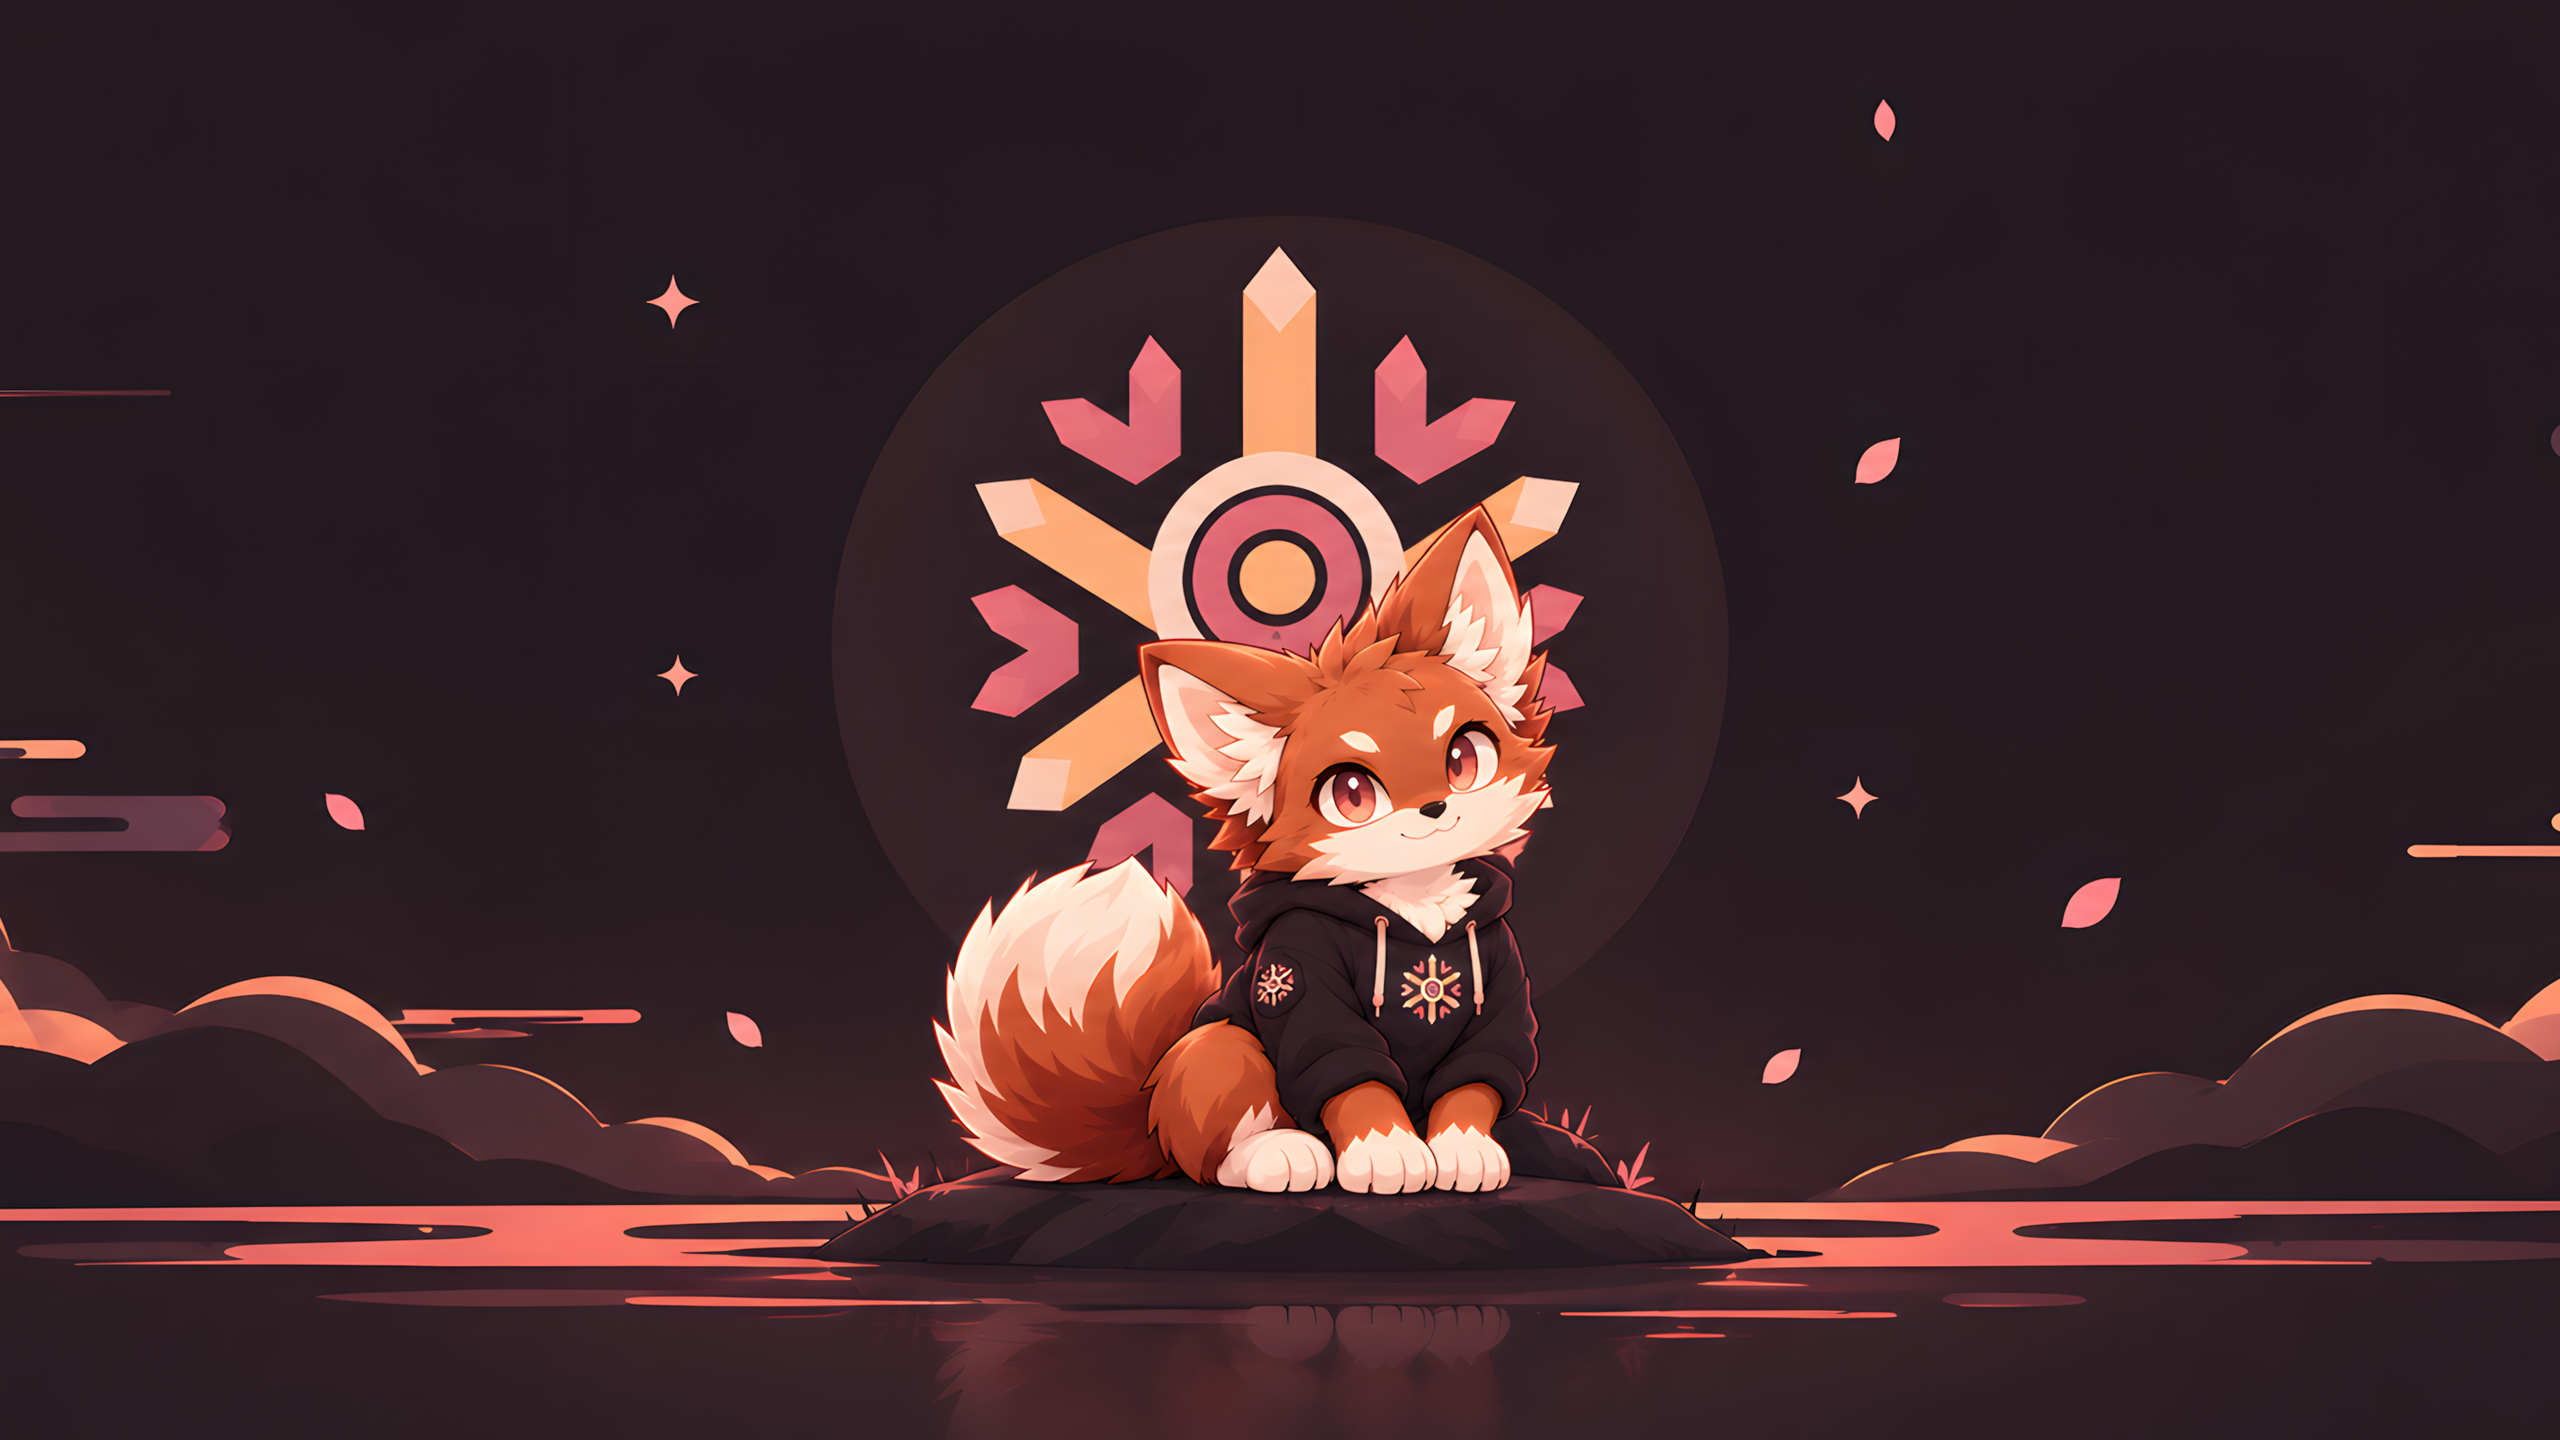
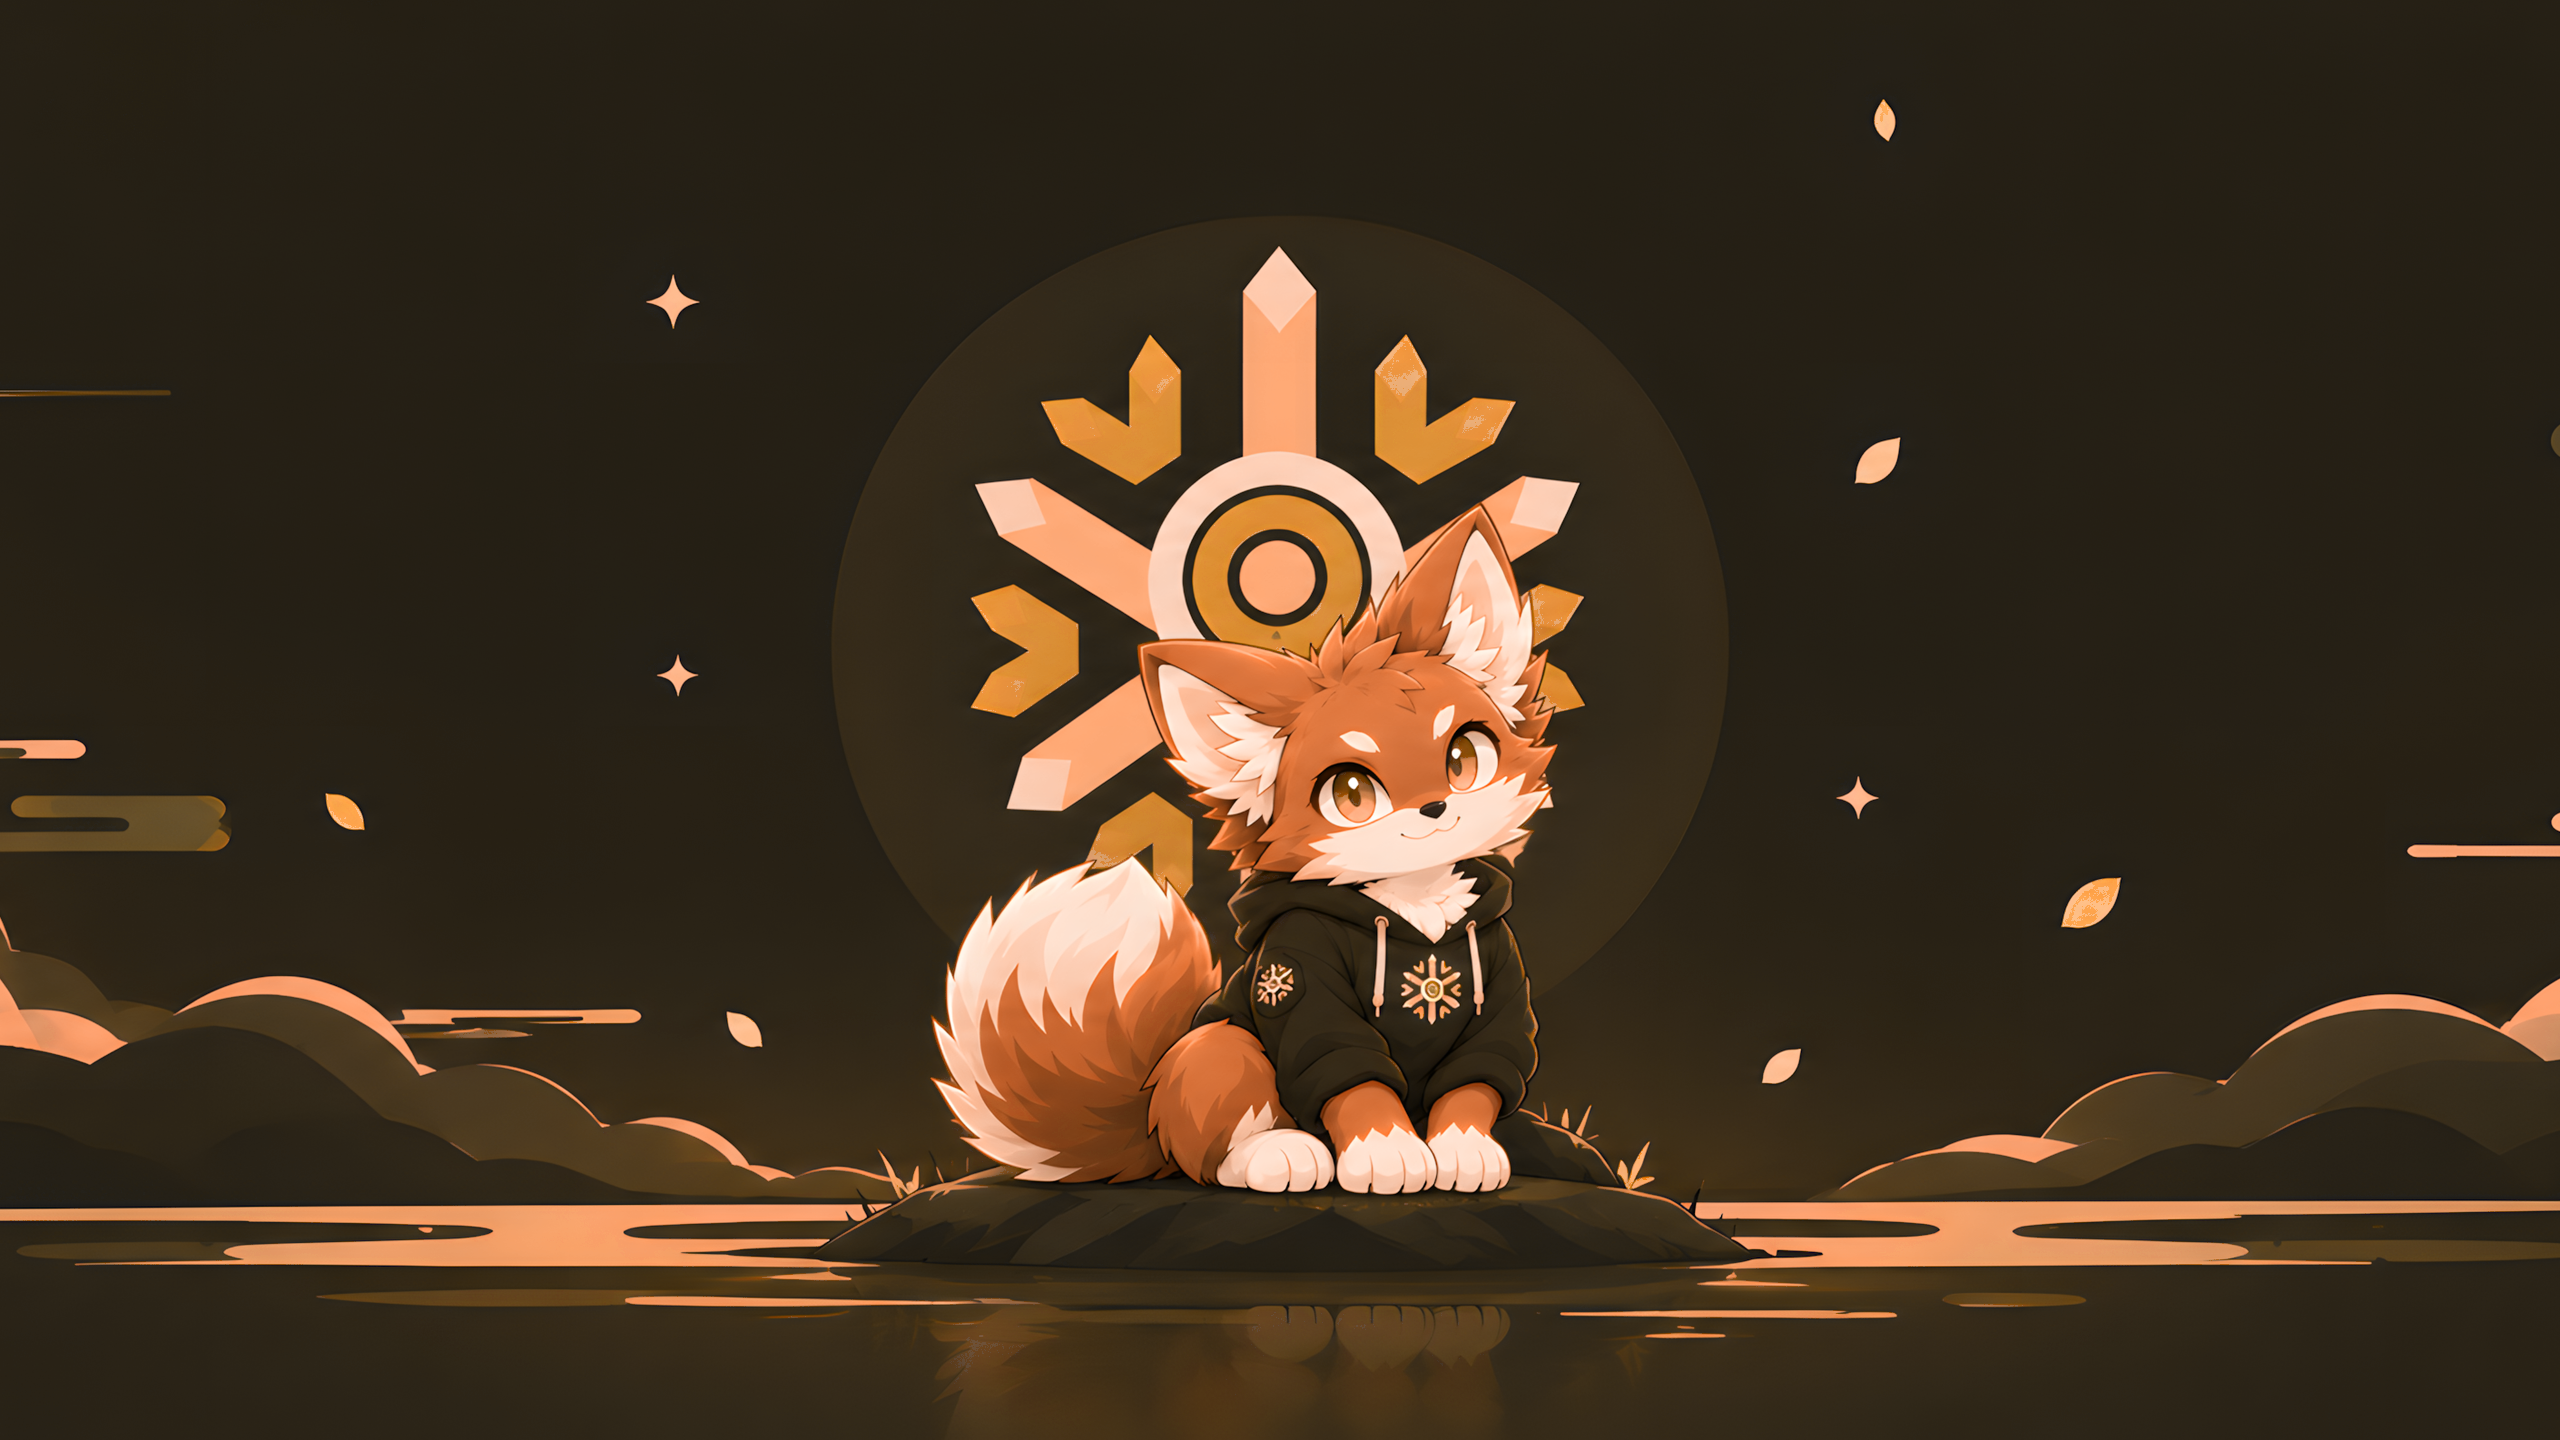
feat(roudix): add Roudix palette and update effect colors

diff --git a/CHANGELOG.md b/CHANGELOG.md
@@ -11,7 +11,8 @@ once they build, then to `main` — so an entry shows up here when it reaches `m
 - Roudix identity moved from Catppuccin Mocha Peach to the Roudix palette: logo
   (SVG + PNG), all app icons (switcher, store, config, hw-sync, kernel/scheduler
   switchers, installer), wallpapers SVG, installer CSS, ISO GRUB theme, fastfetch,
-  Hyprland `colors.lua` and GTK (adw-gtk3) accent/surfaces now follow
+  `roudix-kitsune.png` (hue-remapped), the `*-mocha` / `sakura-roudix` Umbriel
+  presets (names kept, colours now Roudix), Hyprland `colors.lua` and GTK (adw-gtk3) accent/surfaces now follow
   `assets/palette/Roudix.json`.
 
 ### Added
